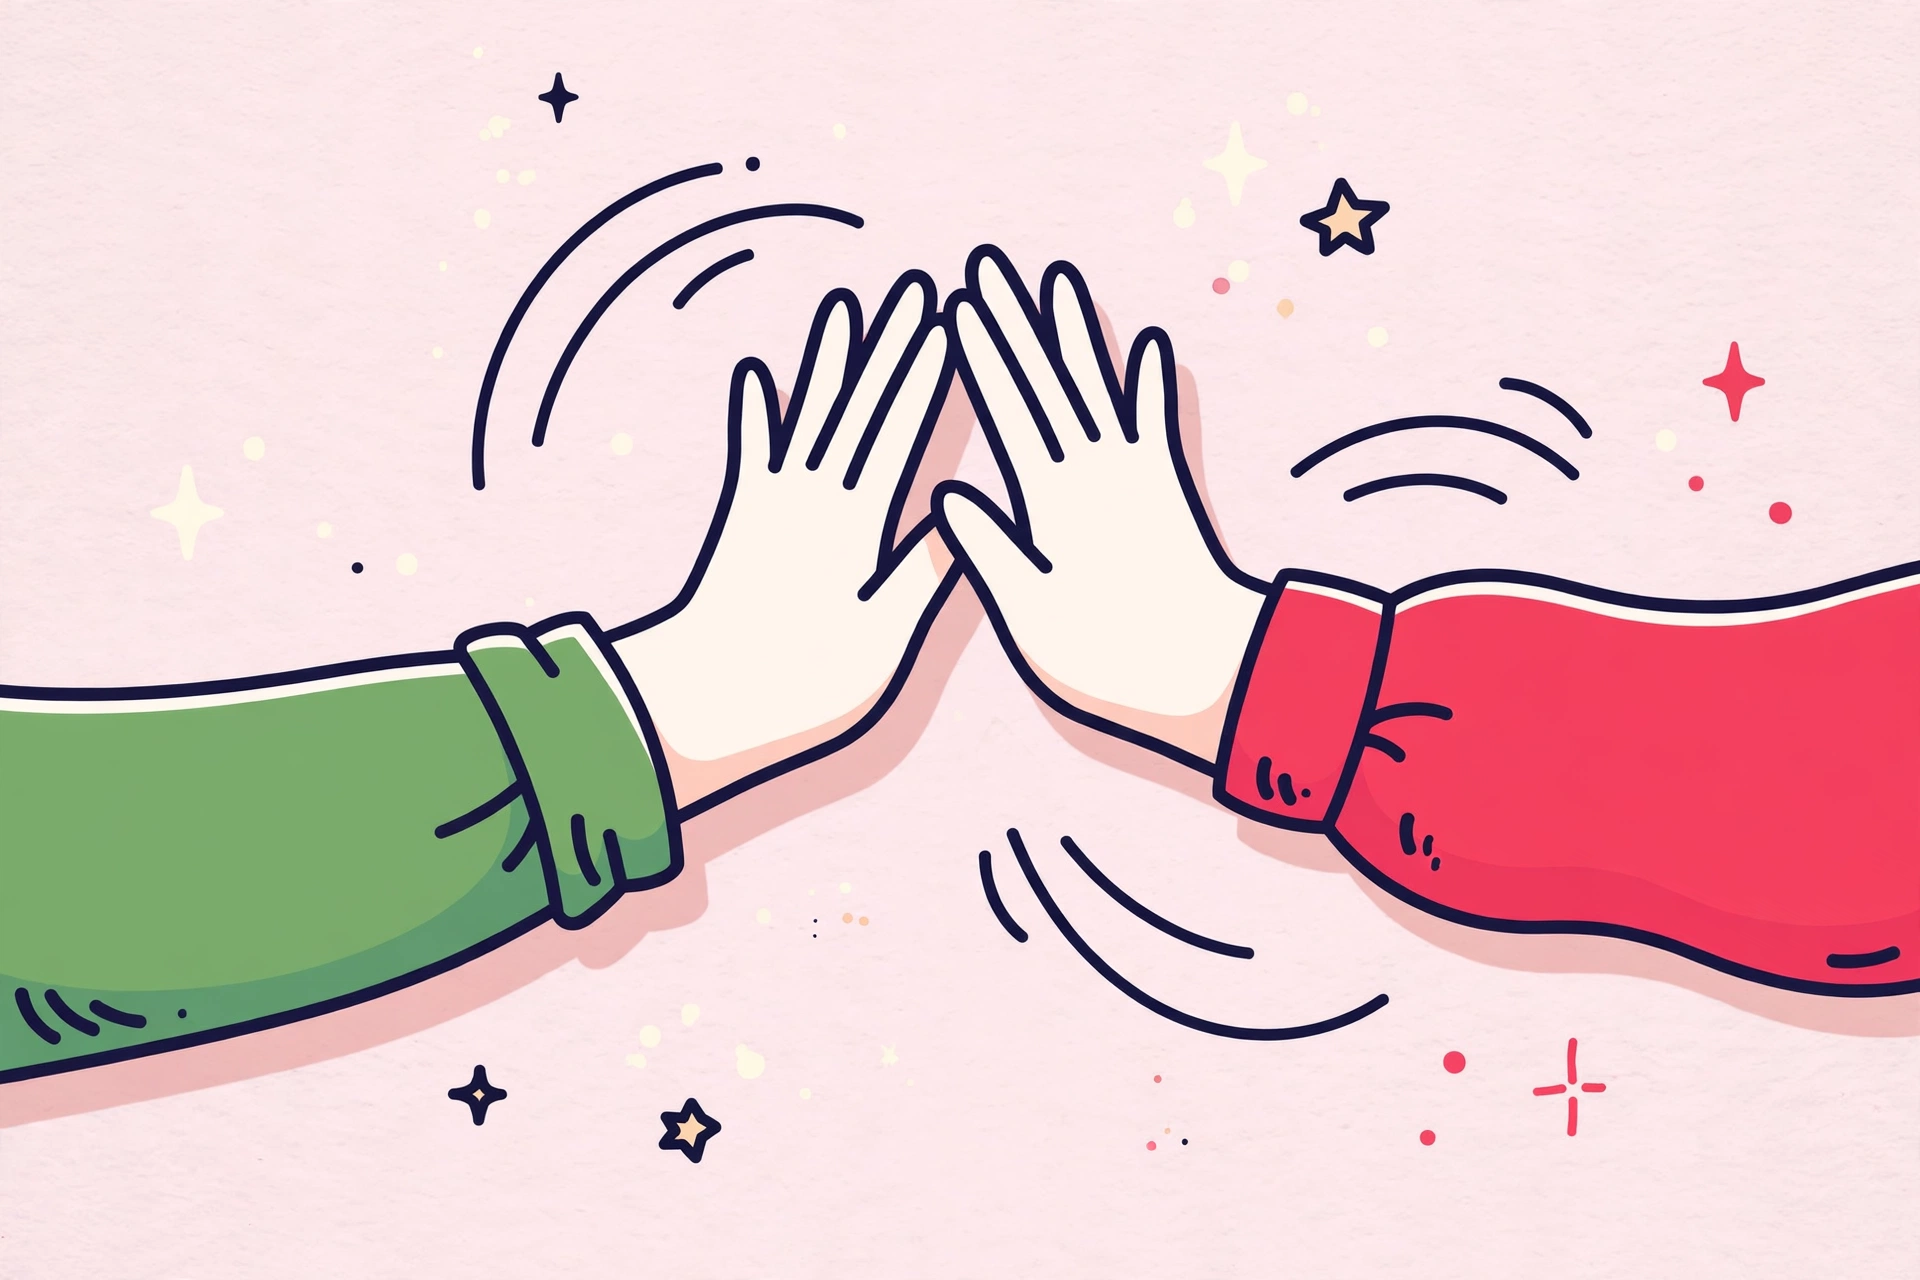
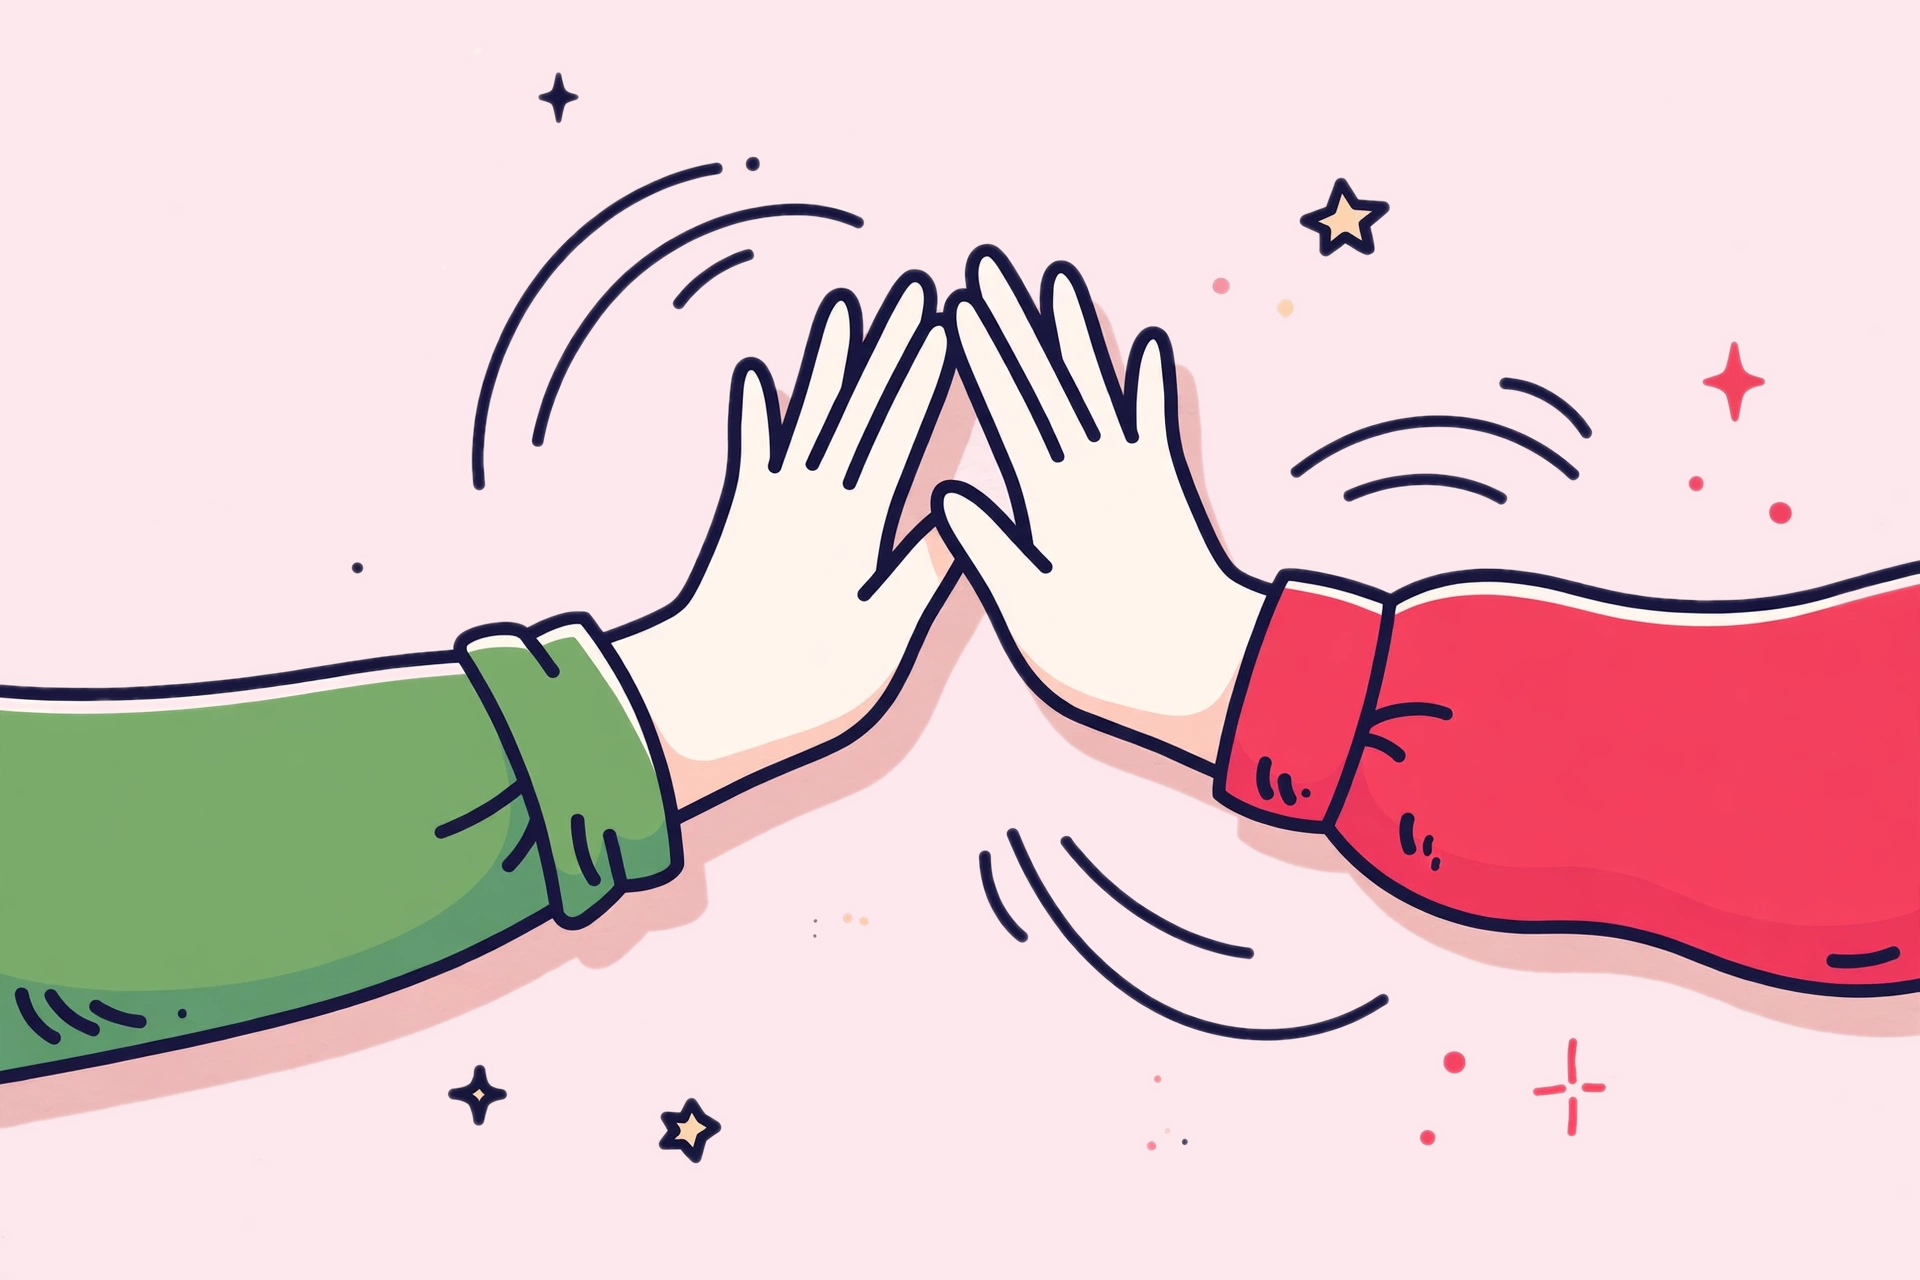
Match reference design: blended artwork, stats layout, two-phone mockups
Hero illustration regenerated with reference arrangement; illustration backgrounds recolored to exact section colors (no card/border); About stats moved under text; PhoneMockup shows two phones with screens; tighter section padding; og.png regenerated; docs updated.

Changed region(s): [[0.9688, 0.4375, 1.0, 0.4688], [0.8125, 0.8438, 0.8438, 0.875]]

diff --git a/portfolio/src/lib/components/ui/PhoneMockup.svelte b/portfolio/src/lib/components/ui/PhoneMockup.svelte
@@ -2,9 +2,10 @@
 	import type { MockupVariant } from '#lib/schemas/project';
 	import { cn } from '#lib/utils/cn';
 
-	// Decorative demo phones. The front phone shows the generated app
-	// screen for the project; the back phone is an abstract skeleton for
-	// depth. All project information lives in the card text beside the tile.
+	// Decorative demo phones. Both phones show the generated app screen
+	// for the project — the back phone tilted behind the front one, as
+	// in the reference design. All project information lives in the
+	// card text beside the tile.
 	let { variant, class: className = '' }: { variant: MockupVariant; class?: string } = $props();
 
 	const screens: Record<MockupVariant, { src: string; width: number; height: number }> = {
@@ -17,17 +18,19 @@
 </script>
 
 <div class={cn('relative mx-auto w-44', className)} aria-hidden="true">
-	<!-- Back phone, generic skeleton -->
+	<!-- Back phone, same screen, tilted -->
 	<div
-		class="absolute top-5 -right-4 w-28 rotate-6 rounded-[1.4rem] border-4 border-white/90 bg-white/80 p-2 shadow-sm"
+		class="absolute top-6 -right-3 aspect-[9/19] w-28 rotate-[8deg] overflow-hidden rounded-[1.3rem] border-4 border-white/90 bg-white shadow-sm"
 	>
-		<div class="mx-auto h-1 w-8 rounded-full bg-ink/20"></div>
-		<div class="mt-2 h-10 rounded-lg bg-lilac"></div>
-		<div class="mt-2 space-y-1.5">
-			<div class="h-1.5 rounded-full bg-ink/10"></div>
-			<div class="h-1.5 w-3/4 rounded-full bg-ink/10"></div>
-			<div class="h-1.5 w-1/2 rounded-full bg-ink/10"></div>
-		</div>
+		<img
+			src={screen.src}
+			alt=""
+			width={screen.width}
+			height={screen.height}
+			loading="lazy"
+			decoding="async"
+			class="block h-full w-full object-cover object-top"
+		/>
 	</div>
 
 	<!-- Front phone with the generated app screen -->

diff --git a/portfolio/src/lib/components/sections/About.svelte b/portfolio/src/lib/components/sections/About.svelte
@@ -11,8 +11,8 @@
 
 <section id="about" aria-labelledby="about-heading" tabindex="-1" class="bg-blush">
 	<WaveDivider fillClass="fill-cream" />
-	<div class="mx-auto max-w-7xl px-4 py-14 sm:px-6 lg:px-8 lg:py-20">
-		<div class="grid items-center gap-12 lg:grid-cols-2">
+	<div class="mx-auto max-w-7xl px-4 py-12 sm:px-6 lg:px-8 lg:py-16">
+		<div class="grid items-center gap-10 lg:grid-cols-2">
 			<div use:reveal>
 				<img
 					src="/images/about-illustration.png"
@@ -21,7 +21,7 @@
 					height="1280"
 					loading="lazy"
 					decoding="async"
-					class="h-auto w-full rounded-[2rem] shadow-lg ring-1 ring-ink/5"
+					class="h-auto w-full"
 				/>
 			</div>
 			<div use:reveal={{ delay: 100 }}>
@@ -36,13 +36,12 @@
 					I love turning ideas into real products with clean code, great user experience and modern
 					technologies.
 				</p>
+				<div class="mt-8 grid grid-cols-2 gap-x-6 gap-y-6 sm:grid-cols-4">
+					{#each stats as stat (stat.id)}
+						<Stat {stat} />
+					{/each}
+				</div>
 			</div>
-		</div>
-
-		<div class="mt-14 grid grid-cols-2 gap-x-6 gap-y-8 md:grid-cols-4" use:reveal>
-			{#each stats as stat (stat.id)}
-				<Stat {stat} />
-			{/each}
 		</div>
 	</div>
 </section>

diff --git a/portfolio/src/lib/components/sections/Hero.svelte b/portfolio/src/lib/components/sections/Hero.svelte
@@ -10,7 +10,7 @@
 
 <section id="home" aria-labelledby="hero-heading" tabindex="-1">
 	<div
-		class="mx-auto grid max-w-7xl items-center gap-12 px-4 pt-10 pb-16 sm:px-6 lg:grid-cols-2 lg:gap-8 lg:px-8 lg:pt-16 lg:pb-24"
+		class="mx-auto grid max-w-7xl items-center gap-12 px-4 pt-10 pb-16 sm:px-6 lg:grid-cols-2 lg:gap-8 lg:px-8 lg:pt-16 lg:pb-20"
 	>
 		<div use:reveal>
 			<p class="font-display text-lg font-bold text-ink">Hi, I'm Ayaan 👋</p>
@@ -59,7 +59,7 @@
 				height="1280"
 				fetchpriority="high"
 				decoding="async"
-				class="h-auto w-full rounded-[2rem] shadow-lg ring-1 ring-ink/5"
+				class="h-auto w-full"
 			/>
 		</div>
 	</div>

diff --git a/portfolio/src/lib/components/sections/Cta.svelte b/portfolio/src/lib/components/sections/Cta.svelte
@@ -9,7 +9,7 @@
 <section id="cta" aria-labelledby="cta-heading" tabindex="-1" class="bg-blush">
 	<WaveDivider fillClass="fill-cream" flip />
 	<div
-		class="mx-auto grid max-w-7xl items-center gap-10 px-4 py-14 sm:px-6 lg:grid-cols-2 lg:px-8 lg:py-20"
+		class="mx-auto grid max-w-7xl items-center gap-10 px-4 py-12 sm:px-6 lg:grid-cols-2 lg:px-8 lg:py-16"
 	>
 		<div use:reveal>
 			<h2
@@ -33,7 +33,7 @@
 				height="1280"
 				loading="lazy"
 				decoding="async"
-				class="h-auto w-full rounded-[2rem] shadow-lg ring-1 ring-ink/5"
+				class="h-auto w-full"
 			/>
 		</div>
 	</div>

diff --git a/portfolio/src/lib/components/sections/Services.svelte b/portfolio/src/lib/components/sections/Services.svelte
@@ -12,7 +12,7 @@
 
 <section id="services" aria-labelledby="services-heading" tabindex="-1" class="bg-lilac">
 	<WaveDivider fillClass="fill-blush" flip />
-	<div class="mx-auto max-w-7xl px-4 py-14 sm:px-6 lg:px-8 lg:py-20">
+	<div class="mx-auto max-w-7xl px-4 py-12 sm:px-6 lg:px-8 lg:py-16">
 		<div class="grid items-end gap-4 lg:grid-cols-2" use:reveal>
 			<SectionHeading eyebrow="What I do" id="services-heading">
 				Services I <Highlight>provide</Highlight>

diff --git a/portfolio/src/lib/components/sections/SelectedWork.svelte b/portfolio/src/lib/components/sections/SelectedWork.svelte
@@ -13,7 +13,7 @@
 
 <section id="projects" aria-labelledby="projects-heading" tabindex="-1" class="bg-cream">
 	<WaveDivider fillClass="fill-lilac" />
-	<div class="mx-auto max-w-7xl px-4 py-14 sm:px-6 lg:px-8 lg:py-20">
+	<div class="mx-auto max-w-7xl px-4 py-12 sm:px-6 lg:px-8 lg:py-16">
 		<div class="grid items-end gap-4 lg:grid-cols-2" use:reveal>
 			<SectionHeading eyebrow="My Work" id="projects-heading">
 				Selected <Highlight>Work</Highlight>

diff --git a/docs/10-sources.md b/docs/10-sources.md
@@ -346,3 +346,22 @@ Nothing is recorded here yet: setup has not run.)
 - Gates re-verified after integration + polish: check 0 errors /
   0 warnings, lint pass, Vitest 12/12, Playwright 6/6, build pass.
   `og.png` regenerated from the new hero screenshot (1200x630).
+
+### 2026-11-15 — Reference-fidelity pass (v4)
+
+- The user rejected the first artwork integration (cards + layout did
+  not match the reference closely enough). Fixes, all verified by
+  screenshots (`qa/*-v4.png`, scroll-aware capture so lazy images
+  load): hero illustration regenerated with the reference arrangement
+  (large 3/4 laptop with keyboard, floating tilted phone, plant left,
+  AR. mug right, pink blob); the 3 illustration backgrounds were
+  recolored in place (numpy + scipy connected-component mask, feathered)
+  to the exact section colors (hero #FFF7F1, about/CTA #FDE8EE) so the
+  artwork blends into the sections with no card/border; About stats
+  moved into the right column under the text (4-across, as in the
+  reference); PhoneMockup now shows two phones, both with the generated
+  screen (back phone tilted); section padding tightened. Original
+  pre-recolor files kept as `qa/*-orig.png`, first hero as
+  `qa/hero-illustration-v1.png`. Gates re-verified: check 0/0, lint
+  pass, Vitest 12/12, Playwright 6/6, build pass. `og.png` regenerated
+  from the new hero screenshot.
